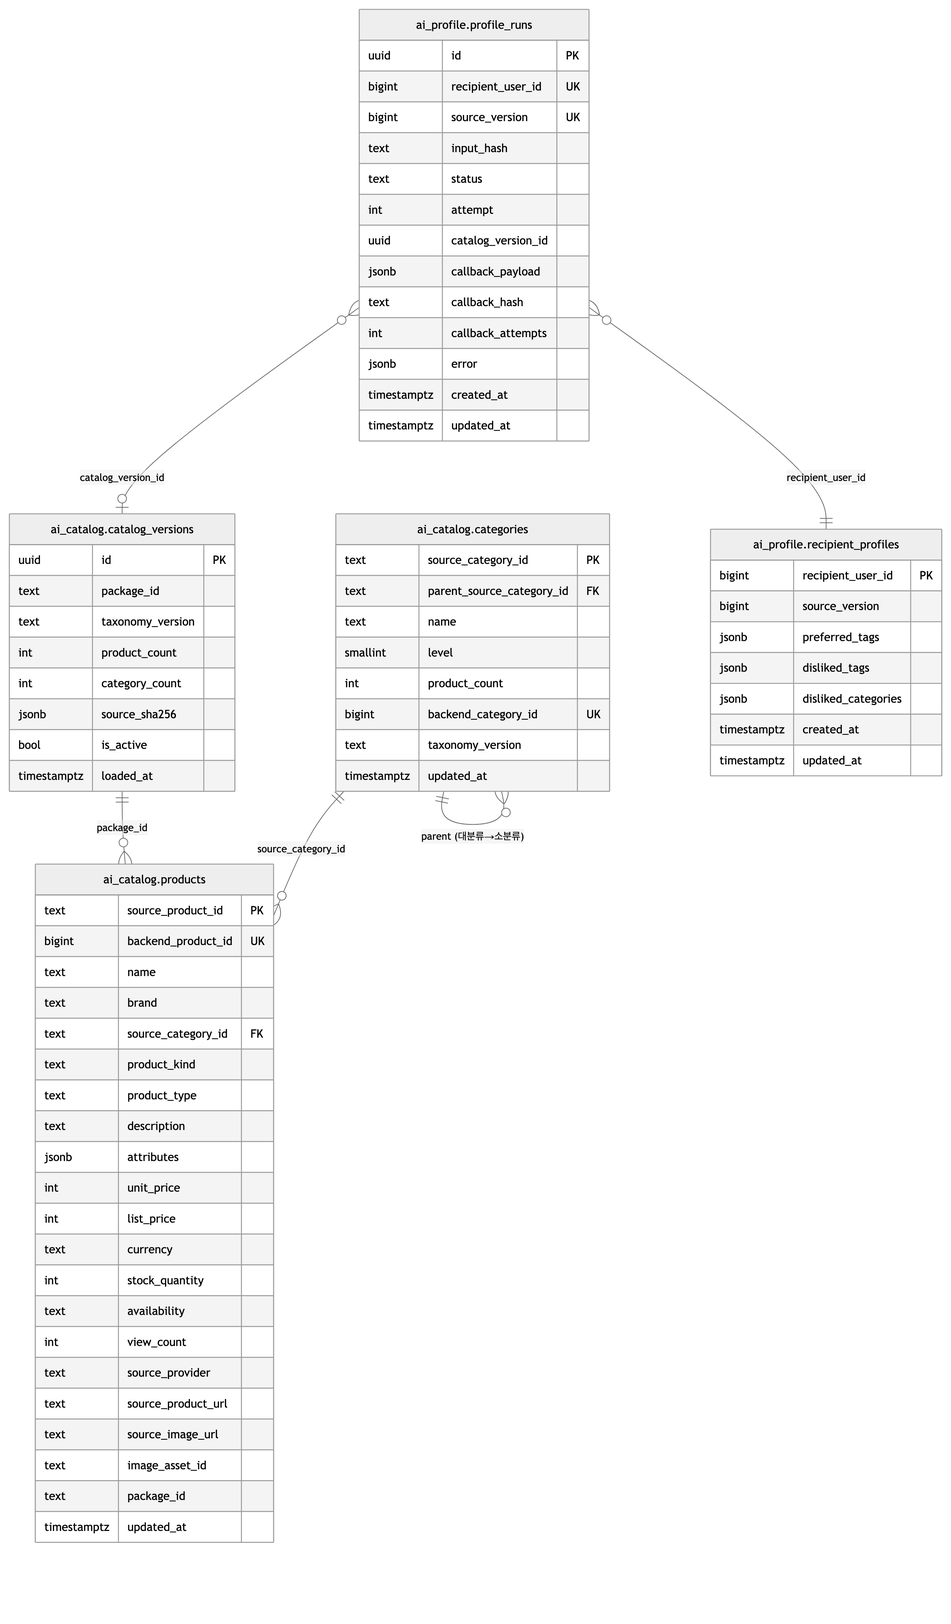
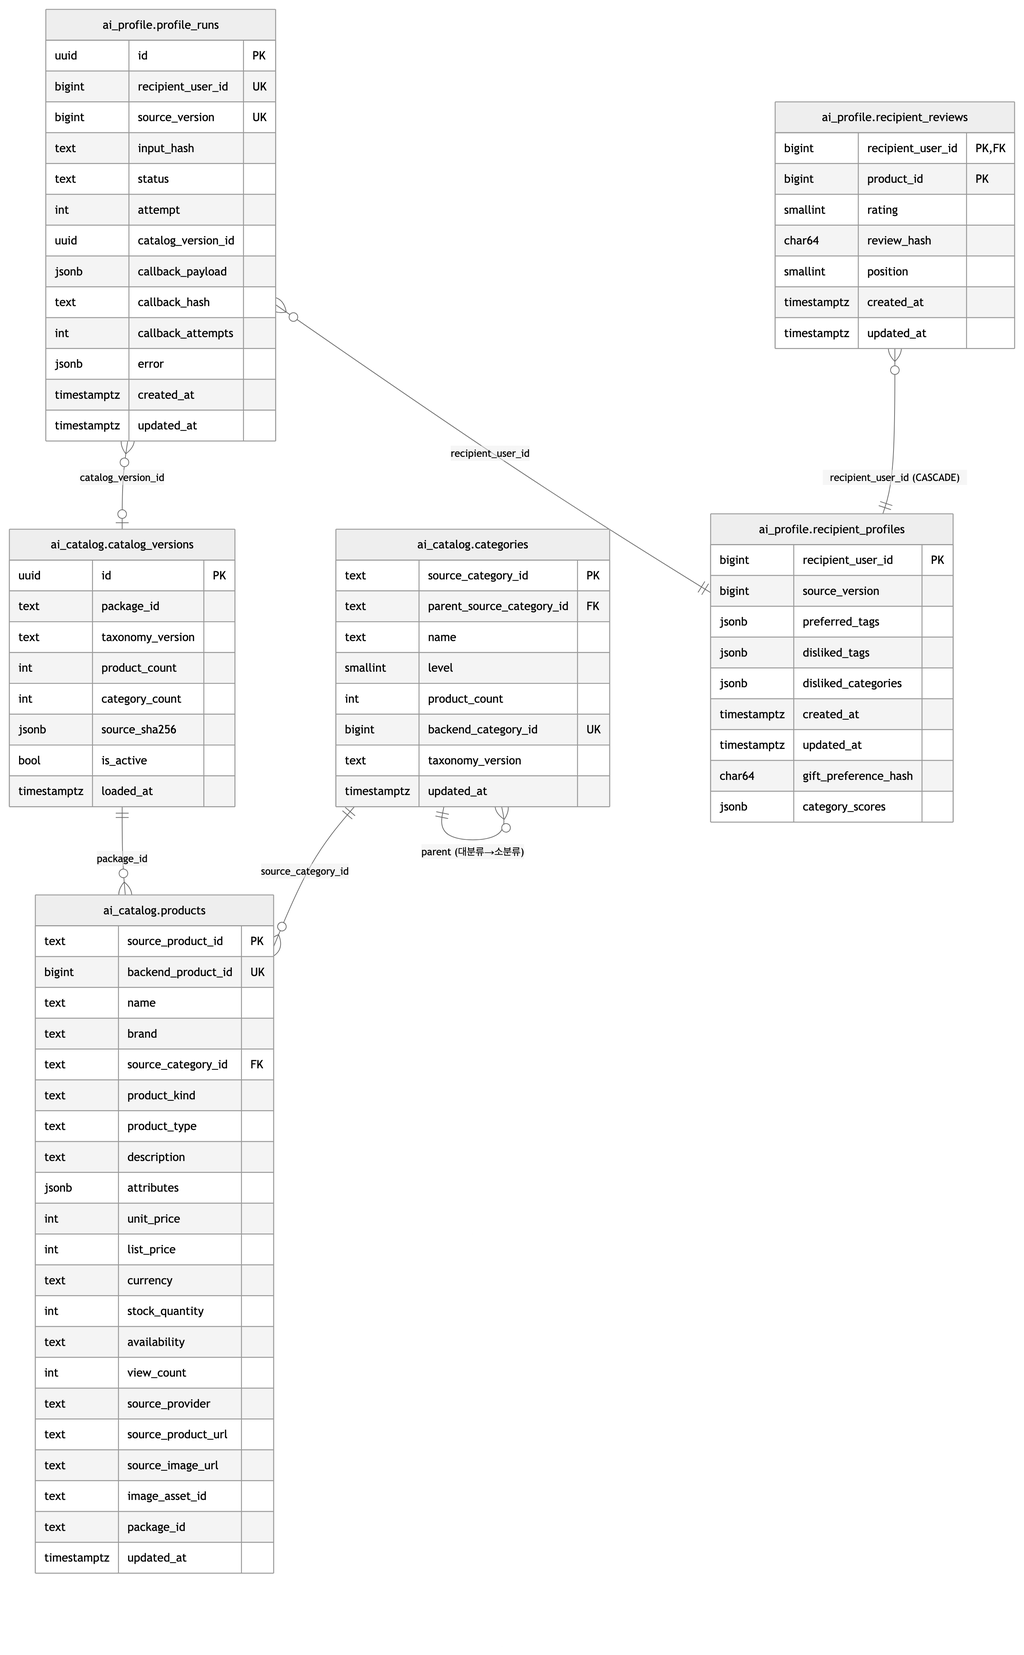
feat(profiling): 0005 recipient_reviews · 리뷰 신호 열 — 원문 없이 해시만 (v2 3단계, 결정 B)
위키 데이터-컨텍스트 보강 설계 "7.6 입력은 그 실행에서만 쓰고 저장하지 않습니다"에 맞춰 리뷰 글·취향 문장
원문을 저장하지 않는다(10-07 원문 저장 결정 폐기). 리뷰 단위 캐시는 review_hash 로 판정한다.

- 0005: recipient_profiles + gift_preference_hash CHAR(64) · category_scores JSONB '[]'
  새 표 recipient_reviews(PK 수신자·상품, FK → recipient_profiles ON DELETE CASCADE,
  CHECK 별점 1~5 · 자리 0~9, 열 주석). 글 열 없음
- types: preference_hash() 추가 · RecipientProfile.gift_preference → gift_preference_hash ·
  ReviewRecord.review_text 삭제 · position le=9(DB CHECK 와 같게)
- 시험: 단위(자리 상한 · 취향 지문 · 원문이 행에 없음) · 통합 3개(스키마·PK·FK CASCADE /
  CHECK·PK 중복·FK 부모 없음·부모 삭제 / 원문 열 없음, 수신자 9,000,001~) · 열 목록 9개
- DB_ERD: §0·§1 그림·§2.1·§2.3 새 절·§6·§10. 그림 생성기는 ERD 가 커져 PIL 픽셀 상한 해제(로컬 캡처)

diff --git a/profiling/src/profiling/types.py b/profiling/src/profiling/types.py
@@ -4,7 +4,7 @@
 두 세계의 변환은 pipeline.to_internal()(7.6 DTO → ProfileRequest)과 backend.to_callback()(ProfileOutcome → 7.7 DTO) 두 곳뿐.
 
 근거 문서: 4단계 2.2(흐름·의사코드), 5단계 1.2(프로필 테이블)·3.2(모델 입력), 6단계 1.2·3.2.
-리뷰 신호(별점 → 카테고리 편향 · 리뷰 행 보관)는 2026-10-07 결정 — 규칙표_별점x글 §3·§4(팀 폴더 일일작업물/첨부/2026-10-07_리뷰_신호_처리).
+리뷰 신호(별점 → 카테고리 편향 · 리뷰 행 보관 — 원문은 빼고 해시만, 10-11 결정 B)는 2026-10-07 결정 — 규칙표_별점x글 §3·§4(팀 폴더 일일작업물/첨부/2026-10-07_리뷰_신호_처리).
 실험 산출물(`extract_3axis.json`, `profiles_3axis_v0.json`)을 그대로 읽을 수 있도록 LLM 출력·판정 로그의 키 이름은
 실험과 같게 두었다(camelCase 키는 alias로 받는다). 판정 문자열 상수는 실험과 동일 — 바꾸면 회귀 비교가 안 된다.
 """
@@ -304,14 +304,24 @@ def review_hash(review: Review) -> str:
     return hashlib.sha256(raw.encode("utf-8")).hexdigest()
 
 
+def preference_hash(text: str | None) -> str | None:
+    """취향 문장의 지문 — sha256(정규화한 글), 64자. 없거나 공백만이면 None. 원문 대신 이것만 저장한다(10-11 결정 B)."""
+    t = normalize_text(text)
+    return hashlib.sha256(t.encode("utf-8")).hexdigest() if t else None
+
+
 class ReviewRecord(BaseModel):
-    """ai_profile.recipient_reviews 한 행(0005) — 수신자 한 사람의 리뷰 ≤10, 상품당 최신 1건. 분석마다 행 전체를 교체한다(스냅샷)."""
+    """ai_profile.recipient_reviews 한 행(0005) — 수신자 한 사람의 리뷰 ≤10, 상품당 최신 1건. 분석마다 행 전체를 교체한다(스냅샷).
+
+    **리뷰 글(원문)은 저장하지 않는다**(10-11 결정 B) — 위키 데이터-컨텍스트 보강 설계: 7.6 입력은 "그 실행에서만 쓰고 저장하지 않습니다".
+    원문은 Backend 가 정본으로 갖고 있다. 캐시 판정은 review_hash 로 충분하다(같으면 저장된 추출 결과 재사용 — extraction 열은 0006).
+    """
 
     product_id: int
     rating: int = Field(ge=1, le=5)
-    review_text: str | None = Field(default=None, description="원문 그대로. 없거나 공백만이면 None")
-    review_hash: str = Field(min_length=64, max_length=64, description="review_hash() — 캐시 키")
-    position: int = Field(ge=0, description="7.6 reviews 배열에서의 자리(0이 가장 최신). 건너뛴 중복이 있으면 번호가 빌 수 있다")
+    review_hash: str = Field(min_length=64, max_length=64, description="review_hash() — 캐시 키 (상품·별점·정규화 글)")
+    position: int = Field(ge=0, le=9, description="7.6 reviews 배열에서의 자리(0이 가장 최신, 7.6 상한 10개 → 0~9 · DB CHECK 와 같음). "
+                                                   "건너뛴 중복이 있으면 번호가 빌 수 있다")
 
 
 def to_review_records(reviews: list[Review]) -> list[ReviewRecord]:
@@ -322,8 +332,7 @@ def to_review_records(reviews: list[Review]) -> list[ReviewRecord]:
         if r.product_id in seen:
             continue
         seen.add(r.product_id)
-        out.append(ReviewRecord(product_id=r.product_id, rating=r.rating, review_text=r.review_text if normalize_text(r.review_text) else None,
-                                review_hash=review_hash(r), position=pos))
+        out.append(ReviewRecord(product_id=r.product_id, rating=r.rating, review_hash=review_hash(r), position=pos))
     return out
 
 
@@ -348,7 +357,8 @@ class RecipientProfile(BaseModel):
     axes: dict[str, list[ValidatedTag]] = Field(default_factory=lambda: {"likes": [], "key_features": [], "dislikes": []})
     disliked_categories: list[DislikedCategory] = Field(default_factory=list)   # 7.6에서 받은 명시 비선호 — 분석 시점 사본 (테이블 열과 같은 이름)
     recommended_product_ids: list[int] = Field(default_factory=list, max_length=30)
-    gift_preference: str | None = Field(default=None, description="7.6 giftPreference 그대로(취향 문장) — 분석 시점 사본. 없거나 공백이면 None (0005)")
+    gift_preference_hash: str | None = Field(default=None, min_length=64, max_length=64,
+                                             description="7.6 giftPreference 의 지문(preference_hash) — 원문은 저장 안 함(10-11 결정 B). 없거나 공백이면 None (0005)")
     category_scores: list[CategoryScore] = Field(default_factory=list, description="소분류별 별점 누적 — 편향 = score_sum ÷ (n + 2) (0005)")
     reviews: list[ReviewRecord] = Field(default_factory=list, max_length=10, description="이번 분석에 쓴 리뷰 ≤10 — recipient_reviews 자식 행, 스냅샷 교체 (0005)")
     catalog_version_id: UUID | None = None
@@ -365,7 +375,8 @@ def from_outcome(rq: ProfileRequest, outcome: ProfileOutcome, profile_run_id: st
     - axes: ValidationResult의 3축 원형(v1은 전부 []).
     - disliked_categories: 요청(rq)에서 그대로 — "분석 시점 사본"이라 Backend가 이후 바꿔도 다음 7.6까지 모른다(설계서 §1.7).
     - recommended_product_ids · catalog_version_id: outcome.search에서(콜백과 같은 30개).
-    - gift_preference · reviews: 요청(rq)에서 그대로 — 비선호와 같은 "분석 시점 사본". 리뷰는 to_review_records()로 행(해시·자리)이 된다.
+    - gift_preference_hash · reviews: 요청(rq)에서 — **원문은 남기지 않고 지문만**(10-11 결정 B, 위키 "7.6 입력은 저장하지 않음").
+      리뷰는 to_review_records()로 행(상품·별점·해시·자리)이 된다.
     - category_scores: 호출자가 넘긴다(score_categories — 카탈로그가 필요해 pipeline이 만든다). 안 넘기면 [].
     """
     v = outcome.validation
@@ -380,7 +391,7 @@ def from_outcome(rq: ProfileRequest, outcome: ProfileOutcome, profile_run_id: st
              else {"likes": [], "key_features": [], "dislikes": []},
         disliked_categories=list(rq.disliked_categories),
         recommended_product_ids=list(s.product_ids) if s else [],
-        gift_preference=rq.gift_preference if normalize_text(rq.gift_preference) else None,
+        gift_preference_hash=preference_hash(rq.gift_preference),
         category_scores=list(category_scores or []),
         reviews=to_review_records(rq.reviews),
         catalog_version_id=s.catalog_version_id if s else None,

diff --git a/profiling/tests/integration/test_db_recipient_profiles.py b/profiling/tests/integration/test_db_recipient_profiles.py
@@ -1,4 +1,4 @@
-"""로컬 PostgreSQL(docker compose) 통합 시험 — ai_profile.recipient_profiles·profile_runs 가 마이그레이션대로 있고 upsert·상태 규칙이 도는지.
+"""로컬 PostgreSQL(docker compose) 통합 시험 — ai_profile.recipient_profiles·recipient_reviews·profile_runs 가 마이그레이션대로 있고 upsert·상태 규칙이 도는지.
 DB가 안 떠 있으면 skip (단위 테스트와 섞이지 않게). 실행: docker compose up -d && uv run alembic upgrade head && uv run pytest tests/integration"""
 
 import pytest
@@ -31,7 +31,9 @@ def test_schema_applied(conn, alembic_head) -> None:
         select column_name, data_type, column_default from information_schema.columns
         where table_schema='ai_profile' and table_name='recipient_profiles' order by ordinal_position""")).all()
     names = [c[0] for c in cols]
-    assert names == ["recipient_user_id", "source_version", "preferred_tags", "disliked_tags", "disliked_categories", "created_at", "updated_at"]
+    assert names == ["recipient_user_id", "source_version", "preferred_tags", "disliked_tags", "disliked_categories", "created_at", "updated_at",
+                     "gift_preference_hash", "category_scores"]                 # 0005: ADD COLUMN 은 뒤에 붙는다
+    assert {c[0]: c[2] for c in cols}["category_scores"].startswith("'[]'::jsonb")
     assert cols[0][2] is None                                       # PK는 Backend 값 — 시퀀스 없음
     assert conn.execute(sa.text("select 1 from pg_extension where extname='vector'")).scalar() == 1
     assert conn.execute(sa.text("select version_num from alembic_version")).scalar() == alembic_head
@@ -53,6 +55,56 @@ def test_upsert_keeps_newer_version(conn) -> None:
     assert row == (3, ["휴대용"])
     conn.execute(UPSERT, {"rid": 1, "sv": 4, "pref": '["새것"]', "dis": "[]", "cats": "[]"})       # 더 새 버전 → 덮어씀
     assert conn.execute(sa.text("select preferred_tags from ai_profile.recipient_profiles where recipient_user_id=1")).scalar() == ["새것"]
+
+
+# ---- recipient_reviews · 리뷰 신호 열 (0005) — 원문은 저장하지 않는다(10-11 결정 B) ---------------------------------------
+# 수신자 번호는 9_000_001 부터 — 로컬 DB 에 콘솔 시험 데이터(작은 번호)가 남아 있어도 겹치지 않게
+
+R1 = 9_000_001
+INSERT_PROFILE = sa.text("insert into ai_profile.recipient_profiles (recipient_user_id, source_version) values (:rid, 1)")
+INSERT_REVIEW = sa.text("""
+    insert into ai_profile.recipient_reviews (recipient_user_id, product_id, rating, review_hash, position)
+    values (:rid, :pid, :rating, :h, :pos)""")
+
+
+def test_recipient_reviews_schema(conn) -> None:
+    cols = conn.execute(sa.text("""
+        select column_name, col_description(('ai_profile.' || table_name)::regclass, ordinal_position)
+        from information_schema.columns where table_schema='ai_profile' and table_name='recipient_reviews' order by ordinal_position""")).all()
+    assert [c[0] for c in cols] == ["recipient_user_id", "product_id", "rating", "review_hash", "position", "created_at", "updated_at"]
+    assert all(c[1] for c in cols if c[0] not in ("created_at", "updated_at"))   # 업무 열마다 주석 (팀 규칙)
+    pk = conn.execute(sa.text("""
+        select string_agg(a.attname, ',' order by array_position(i.indkey, a.attnum))
+        from pg_index i join pg_attribute a on a.attrelid = i.indrelid and a.attnum = any(i.indkey)
+        where i.indrelid = 'ai_profile.recipient_reviews'::regclass and i.indisprimary""")).scalar()
+    assert pk == "recipient_user_id,product_id"                                  # 상품당 한 행
+    fk = conn.execute(sa.text("""
+        select confdeltype from pg_constraint where conname = 'fk_recipient_reviews_profile'""")).scalar()
+    assert fk == "c"                                                              # ON DELETE CASCADE
+
+
+def test_no_raw_text_columns_stored(conn) -> None:
+    """위키: 7.6 입력은 그 실행에서만 쓰고 저장하지 않는다 — 원문 열이 두 표 어디에도 없어야 한다(10-11 결정 B)."""
+    names = {r[0] for r in conn.execute(sa.text("""
+        select column_name from information_schema.columns
+        where table_schema='ai_profile' and table_name in ('recipient_profiles', 'recipient_reviews')""")).all()}
+    assert not names & {"review_text", "gift_preference", "preference", "text"}
+
+
+def test_recipient_reviews_cascade_and_checks(conn) -> None:
+    conn.execute(INSERT_PROFILE, {"rid": R1})
+    conn.execute(INSERT_REVIEW, {"rid": R1, "pid": 11, "rating": 5, "h": "a" * 64, "pos": 0})
+    with pytest.raises(sa.exc.IntegrityError, match="ck_recipient_reviews_rating"), conn.begin_nested():
+        conn.execute(INSERT_REVIEW, {"rid": R1, "pid": 12, "rating": 0, "h": "b" * 64, "pos": 1})
+    with pytest.raises(sa.exc.IntegrityError, match="ck_recipient_reviews_position"), conn.begin_nested():
+        conn.execute(INSERT_REVIEW, {"rid": R1, "pid": 13, "rating": 3, "h": "c" * 64, "pos": 10})
+    with pytest.raises(sa.exc.IntegrityError, match="pk_recipient_reviews"), conn.begin_nested():
+        conn.execute(INSERT_REVIEW, {"rid": R1, "pid": 11, "rating": 1, "h": "d" * 64, "pos": 2})   # 같은 상품 두 번
+    with pytest.raises(sa.exc.IntegrityError, match="fk_recipient_reviews_profile"), conn.begin_nested():
+        conn.execute(INSERT_REVIEW, {"rid": R1 + 1, "pid": 11, "rating": 5, "h": "e" * 64, "pos": 0})  # 부모 프로필 없음
+    conn.execute(sa.text("delete from ai_profile.recipient_profiles where recipient_user_id = :rid"), {"rid": R1})
+    left = conn.execute(sa.text("select count(*) from ai_profile.recipient_reviews where recipient_user_id = :rid"), {"rid": R1}).scalar()
+    assert left == 0                                                              # 부모를 지우면 자식도 사라진다
 
 
 # ---- profile_runs (0002) -------------------------------------------------------------------------------------------------

diff --git a/profiling/alembic/versions/0005_recipient_reviews.py b/profiling/alembic/versions/0005_recipient_reviews.py
@@ -1,0 +1,73 @@
+"""0005 — 리뷰 신호 보관: recipient_profiles 열 둘 · recipient_reviews 표 (원문은 저장하지 않는다)
+
+Revision ID: 0005
+Revises: 0004
+Create Date: 2026-10-11
+
+근거: v2 구현 가이드 3단계(2026-10-08) · 저장 설계(2026-10-07) · **10-11 결정 B — 원문 대신 지문(해시)만**.
+  위키 데이터-컨텍스트 보강 설계: 7.6 입력(취향 문장·비선호·리뷰)은 "그 실행에서만 쓰고 저장하지 않습니다". 원문 정본은 Backend.
+  그래서 리뷰 글·취향 문장 원문 열을 두지 않는다. 리뷰 단위 캐시(안 바뀐 리뷰는 LLM 재추출 없음)는 review_hash 로 판정한다.
+
+  recipient_profiles  + gift_preference_hash  취향 문장 지문 (preference_hash, 없으면 NULL)
+                      + category_scores       소분류별 별점 누적 [{category_id, n, score_sum}] — 편향은 읽을 때 계산
+  recipient_reviews   수신자 한 사람의 리뷰 ≤10, 상품당 한 행 (PK 수신자·상품). 분석마다 행 전체 교체(스냅샷, 4단계 stores)
+
+미룬 열(10-08 결정): extraction · prompt_version · vocab_version 은 LLM 단계에서 0006.
+마이그레이션은 이 브랜치(feat/v2-profiling-init)에만 — 다른 브랜치에 필요해지면 0006 (alembic 은 머리가 둘이면 멈춘다).
+"""
+
+from __future__ import annotations
+
+import sqlalchemy as sa
+from sqlalchemy.dialects import postgresql as pg
+
+from alembic import op
+
+revision = "0005"
+down_revision = "0004"
+branch_labels = None
+depends_on = None
+
+SCHEMA = "ai_profile"
+
+
+def upgrade() -> None:
+    # 1) 프로필 행에 열 둘 — ADD COLUMN 은 기존 열 뒤에 붙는다
+    op.add_column(
+        "recipient_profiles",
+        sa.Column("gift_preference_hash", sa.CHAR(64), nullable=True,
+                  comment="7.6 giftPreference 의 지문 sha256(정규화 글) — 원문은 저장하지 않음(위키: 7.6 입력은 저장 안 함). 없거나 공백이면 NULL"),
+        schema=SCHEMA,
+    )
+    op.add_column(
+        "recipient_profiles",
+        sa.Column("category_scores", pg.JSONB, nullable=False, server_default=sa.text("'[]'::jsonb"),
+                  comment="소분류별 별점 누적 [{category_id, n, score_sum}] — 편향 = score_sum ÷ (n + 2), 저장하지 않고 읽을 때 계산"),
+        schema=SCHEMA,
+    )
+
+    # 2) 리뷰 자식 표 — 프로필 한 행에 리뷰 ≤10 을 담을 수 없어 따로 둔다
+    op.create_table(
+        "recipient_reviews",
+        sa.Column("recipient_user_id", sa.BigInteger, nullable=False, comment="수신자 사용자 ID — recipient_profiles 의 자식"),
+        sa.Column("product_id", sa.BigInteger, nullable=False, comment="리뷰한 상품 (Backend 상품 번호, 7.6 reviews[].productId)"),
+        sa.Column("rating", sa.SmallInteger, nullable=False, comment="별점 1~5"),
+        sa.Column("review_hash", sa.CHAR(64), nullable=False,
+                  comment="sha256(상품 · 별점 · 정규화 글) — 리뷰 단위 캐시 키. 같으면 저장된 추출 결과 재사용(0006). 글 원문은 저장 안 함"),
+        sa.Column("position", sa.SmallInteger, nullable=False, comment="7.6 reviews 배열에서의 자리 0~9 (0 = 가장 최신). 건너뛴 중복이 있으면 번호가 빔"),
+        sa.Column("created_at", sa.DateTime(timezone=True), nullable=False, server_default=sa.text("now()")),
+        sa.Column("updated_at", sa.DateTime(timezone=True), nullable=False, server_default=sa.text("now()")),
+        sa.PrimaryKeyConstraint("recipient_user_id", "product_id", name="pk_recipient_reviews"),
+        sa.ForeignKeyConstraint(["recipient_user_id"], [f"{SCHEMA}.recipient_profiles.recipient_user_id"],
+                                name="fk_recipient_reviews_profile", ondelete="CASCADE"),
+        sa.CheckConstraint("rating BETWEEN 1 AND 5", name="ck_recipient_reviews_rating"),
+        sa.CheckConstraint("position BETWEEN 0 AND 9", name="ck_recipient_reviews_position"),
+        schema=SCHEMA,
+        comment="수신자의 리뷰 ≤10 (상품당 한 행) — 분석마다 스냅샷 교체. 원문 없이 상품·별점·지문·자리만",
+    )
+
+
+def downgrade() -> None:
+    op.drop_table("recipient_reviews", schema=SCHEMA)
+    op.drop_column("recipient_profiles", "category_scores", schema=SCHEMA)
+    op.drop_column("recipient_profiles", "gift_preference_hash", schema=SCHEMA)

diff --git a/profiling/tests/unit/test_recipient_profile.py b/profiling/tests/unit/test_recipient_profile.py
@@ -123,10 +123,25 @@ def test_review_hash_is_stable_and_normalizes_text() -> None:
     assert rp.review_hash(Review(product_id=1, rating=5)) == rp.review_hash(Review(product_id=1, rating=5, review_text="  "))   # 없음 = 공백
 
 
-def test_to_review_records_keeps_first_per_product_and_blank_text_is_none() -> None:
+def test_to_review_records_keeps_first_per_product_without_text() -> None:
+    """상품당 앞의 것(최신)만 · 글은 행에 없고 해시에만 들어간다(10-11 결정 B — 원문 저장 안 함)."""
     rows = rp.to_review_records(_reviews((7, 5, " "), (8, 2, "별로"), (7, 1, "두 번째")))
-    assert [(r.product_id, r.rating, r.review_text, r.position) for r in rows] == [(7, 5, None, 0), (8, 2, "별로", 1)]
+    assert [(r.product_id, r.rating, r.position) for r in rows] == [(7, 5, 0), (8, 2, 1)]
     assert rows[0].review_hash == rp.review_hash(Review(product_id=7, rating=5))
+    assert rows[1].review_hash == rp.review_hash(Review(product_id=8, rating=2, review_text="별로"))
+    assert "review_text" not in rp.ReviewRecord.model_fields                   # 원문 칸 자체가 없다
+
+
+def test_review_record_position_capped_at_nine() -> None:
+    """자리는 0~9 — 7.6 상한 10개, DB CHECK(0005)와 같다."""
+    with pytest.raises(ValueError):
+        rp.ReviewRecord(product_id=1, rating=5, review_hash="a" * 64, position=10)
+
+
+def test_preference_hash_normalizes_and_blank_is_none() -> None:
+    a = rp.preference_hash("향수  좋아해요 ")
+    assert len(a) == 64 and a == rp.preference_hash("향수 좋아해요") and a != rp.preference_hash("향수 싫어요")
+    assert rp.preference_hash(None) is None and rp.preference_hash("   ") is None
 
 
 def test_from_outcome_carries_preference_reviews_and_scores() -> None:
@@ -134,14 +149,15 @@ def test_from_outcome_carries_preference_reviews_and_scores() -> None:
                         reviews=_reviews((1, 5, "좋다"), (3, 1)))
     scores = [rp.CategoryScore(category_id=11, n=1, score_sum=2), rp.CategoryScore(category_id=12, n=1, score_sum=-2)]
     row = rp.from_outcome(rq, _outcome(rq, disliked=()), category_scores=scores)
-    assert row.gift_preference == "향수 좋아해요" and row.category_scores == scores
-    assert [(r.product_id, r.rating, r.review_text, r.position) for r in row.reviews] == [(1, 5, "좋다", 0), (3, 1, None, 1)]
+    assert row.gift_preference_hash == rp.preference_hash("향수 좋아해요") and row.category_scores == scores
+    assert [(r.product_id, r.rating, r.position) for r in row.reviews] == [(1, 5, 0), (3, 1, 1)]
+    assert "향수 좋아해요" not in row.model_dump_json() and "좋다" not in row.model_dump_json()   # 원문이 행 어디에도 없다
 
 
 def test_from_outcome_blank_preference_is_none_and_defaults_empty() -> None:
     rq = ProfileRequest(recipient_user_id=1, source_version=1, gift_preference="  ", disliked_categories=[], reviews=[])
     row = rp.from_outcome(rq, _outcome(rq, disliked=()))
-    assert row.gift_preference is None and row.category_scores == [] and row.reviews == []
+    assert row.gift_preference_hash is None and row.category_scores == [] and row.reviews == []
 
 
 @pytest.mark.skip(reason="v3 — merge_explicit_dislikes 채운 뒤 활성화")

diff --git a/profiling/tests/unit/test_pipeline.py b/profiling/tests/unit/test_pipeline.py
@@ -14,6 +14,7 @@ from profiling.types import (
     ProfileRequest,
     Review,
     RunStatus,
+    preference_hash,
 )
 
 CV = UUID(int=7)   # 시험용 카탈로그 버전 ID
@@ -323,7 +324,8 @@ def test_profile_with_reviews_applies_bias_and_stores_scores(caplog) -> None:
     assert out.validation.preferred_tags == []                                  # 글·취향 → 태그는 하네스 뒤
     row = rstore.get(9073)
     assert row.category_scores == [CategoryScore(category_id=11, n=1, score_sum=2)]
-    assert row.gift_preference == "휴대용" and [r.product_id for r in row.reviews] == [2]
+    assert row.gift_preference_hash == preference_hash("휴대용") and [r.product_id for r in row.reviews] == [2]
+    assert "좋아요" not in row.model_dump_json()                                 # 원문은 저장하지 않는다(10-11 결정 B)
     assert any("scores=1" in r.message and pipeline.POOL_RULE_V2 in r.message for r in caplog.records)
     assert not any("좋아요" in r.message for r in caplog.records)               # 리뷰 원문은 로그에 남지 않는다
 

diff --git a/profiling/docs/assets/build_be_sequences.py b/profiling/docs/assets/build_be_sequences.py
@@ -75,6 +75,8 @@ def _trim(png: Path) -> None:
         from PIL import Image, ImageChops
     except ImportError:
         return
+    # 직접 찍은 로컬 캡처라 압축 폭탄 검사가 필요 없다. 창 높이를 줄 수 × 120px 로 넉넉히 잡아 2배율이면 PIL 기본 상한(약 1.79억 px)을 넘는다(10-11 ERD)
+    Image.MAX_IMAGE_PIXELS = None
     im = Image.open(png).convert("RGB")
     bg = Image.new("RGB", im.size, (255, 255, 255))
     box = ImageChops.difference(im, bg).getbbox()
